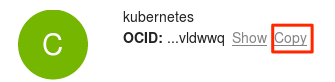
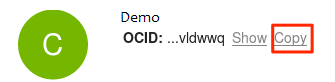
change compartment name to Demo

Changed region(s): [[0.3582, 0.1463, 0.597, 0.2683]]

diff --git a/workshops/container-native-development/LabGuide200-VBox.md b/workshops/container-native-development/LabGuide200-VBox.md
@@ -124,7 +124,7 @@ Compartments are used to isolate resources within your OCI tenant. User-based ac
 
     ![](images/200/7.png)
 
-  - In the **Name** field, enter `kubernetes`. Enter a description of your choice. Click **Create Compartment**.
+  - In the **Name** field, enter `Demo`. Enter a description of your choice. Click **Create Compartment**.
 
     ![](images/200/8.png)
 
@@ -147,14 +147,14 @@ An API key is required for Terraform to authenticate to OCI in order to create c
   cat ~/.oci/oci_api_key_public.pem | xclip -sel clip
   ```
 
-- In your browser window showing the OCI Console, click the **Identity** menu item. You will be brought to the **Users** menu. Find your username in the list and hover over the **three dots** menu at the far right of the row, then click **View User Details**.
+- In your browser window showing the OCI Console, click the **Identity** menu item. Find the user called **api.user***, or for a trial account, find *your username** in the list and hover over the **three dots** menu at the far right of the row, then click **View User Details**.
 
   ![](images/200/56.png)
 
   **NOTE**: You may not see any users in the list, or there may be only administrator users that you cannot modify. In that case, you can access your current logged-in user settings by hovering over your username in the top right of the page and clicking **User Settings**.
 
     ![](images/200/66.png)
-    
+
 - Click **Add Public Key**
 
   ![](images/200/12.png)
@@ -218,7 +218,7 @@ An API key is required for Terraform to authenticate to OCI in order to create c
 
   ![](images/200/57.2.png)
 
-- Now follow the same process of removing the comment character **#**, and fill in the OCI Compartment ID on **line 3**. Paste the value that you saved to a text file after creating the kubernetes **compartment** in the OCI Console. If you have lost it, you can retrieve it from the OCI Console compartment list (refer to **STEP 2**).
+- Now follow the same process of removing the comment character **#**, and fill in the OCI Compartment ID on **line 3**. Paste the value that you saved to a text file after locating or creating the Demo **compartment** in the OCI Console. If you have lost it, you can retrieve it from the OCI Console compartment list (refer to **STEP 2**).
 
   ```
   compartment_ocid = "Compartment OCID"
@@ -272,7 +272,7 @@ An API key is required for Terraform to authenticate to OCI in order to create c
 
   ![](images/200/61.png)
 
-- It will take several minutes to create the required Virtual Cloud Networks, load balancers, and compute instances that make up a Kubernetes cluster. If you'd like, you can observe the objects being created in the **OCI Console** -- click on **Compute** or **Networking** from the navigation menu and be sure to select the **kubernetes compartment** from the dropdown on the left side of the page.
+- It will take several minutes to create the required Virtual Cloud Networks, load balancers, and compute instances that make up a Kubernetes cluster. If you'd like, you can observe the objects being created in the **OCI Console** -- click on **Compute** or **Networking** from the navigation menu and be sure to select the **Demo compartment** from the dropdown on the left side of the page.
 
   ![](images/200/62.png)
 

diff --git a/workshops/container-native-development/LabGuide200-VNC.md b/workshops/container-native-development/LabGuide200-VNC.md
@@ -121,7 +121,7 @@ Compartments are used to isolate resources within your OCI tenant. User-based ac
 
     ![](images/200/7.png)
 
-  - In the **Name** field, enter `kubernetes`. Enter a description of your choice. Click **Create Compartment**.
+  - In the **Name** field, enter `Demo`. Enter a description of your choice. Click **Create Compartment**.
 
     ![](images/200/8.png)
 
@@ -144,7 +144,7 @@ An API key is required for Terraform to authenticate to OCI in order to create c
   cat ~/.oci/oci_api_key_public.pem | xclip -sel clip
   ```
 
-- In your browser window showing the OCI Console, click the **Identity** menu item. You will be brought to the **Users** menu. Find your username in the list and hover over the **three dots** menu at the far right of the row, then click **View User Details**.
+- In your browser window showing the OCI Console, click the **Identity** menu item. Find the user called **api.user***, or for a trial account, find *your username** in the list and hover over the **three dots** menu at the far right of the row, then click **View User Details**.
 
   ![](images/200/56.png)
 
@@ -215,7 +215,7 @@ An API key is required for Terraform to authenticate to OCI in order to create c
 
   ![](images/200/57.2.png)
 
-- Now follow the same process of removing the comment character **#**, and fill in the OCI Compartment ID on **line 3**. Paste the value that you saved to a text file after creating the kubernetes **compartment** in the OCI Console. If you have lost it, you can retrieve it from the OCI Console compartment list (refer to **STEP 2**).
+- Now follow the same process of removing the comment character **#**, and fill in the OCI Compartment ID on **line 3**. Paste the value that you saved to a text file after locating or creating the Demo **compartment** in the OCI Console. If you have lost it, you can retrieve it from the OCI Console compartment list (refer to **STEP 2**).
 
   ```
   compartment_ocid = "Compartment OCID"
@@ -269,7 +269,7 @@ An API key is required for Terraform to authenticate to OCI in order to create c
 
   ![](images/200/61.png)
 
-- It will take several minutes to create the required Virtual Cloud Networks, load balancers, and compute instances that make up a Kubernetes cluster. If you'd like, you can observe the objects being created in the **OCI Console** -- click on **Compute** or **Networking** from the navigation menu and be sure to select the **kubernetes compartment** from the dropdown on the left side of the page.
+- It will take several minutes to create the required Virtual Cloud Networks, load balancers, and compute instances that make up a Kubernetes cluster. If you'd like, you can observe the objects being created in the **OCI Console** -- click on **Compute** or **Networking** from the navigation menu and be sure to select the **Demo compartment** from the dropdown on the left side of the page.
 
   ![](images/200/62.png)
 

diff --git a/workshops/container-native-development/LabGuide200-Linux.md b/workshops/container-native-development/LabGuide200-Linux.md
@@ -86,7 +86,7 @@ Compartments are used to isolate resources within your OCI tenant. User-based ac
 
     ![](images/200/7.png)
 
-  - In the **Name** field, enter `kubernetes`. Enter a description of your choice. Click **Create Compartment**.
+  - In the **Name** field, enter `Demo`. Enter a description of your choice. Click **Create Compartment**.
 
     ![](images/200/8.png)
 
@@ -112,7 +112,7 @@ cat ~/.oci/oci_api_key_public.pem
 
   ![](images/200/11.png)
 
-- In your browser window showing the OCI Console, click the **Identity** menu item. You will be brought to the **Users** menu. Find your username in the list and hover over the **three dots** menu at the far right of the row, then click **View User Details**.
+- In your browser window showing the OCI Console, click the **Identity** menu item. Find the user called **api.user***, or for a trial account, find *your username** in the list and hover over the **three dots** menu at the far right of the row, then click **View User Details**.
 
   ![](images/200/56.png)
 
@@ -231,7 +231,7 @@ export PATH=$PATH:`pwd`
 
   ![](images/200/57.2.png)
 
-- Now follow the same process of removing the comment character **#**, and fill in the OCI Compartment ID on **line 3**. Paste the value that you saved to a text file after creating the kubernetes **compartment** in the OCI Console. If you have lost it, you can retrieve it from the OCI Console compartment list (refer to **STEP 2**).
+- Now follow the same process of removing the comment character **#**, and fill in the OCI Compartment ID on **line 3**. Paste the value that you saved to a text file after locating or creating the Demo **compartment** in the OCI Console. If you have lost it, you can retrieve it from the OCI Console compartment list (refer to **STEP 2**).
 
   ```
   compartment_ocid = "Compartment OCID"
@@ -287,7 +287,7 @@ export PATH=$PATH:`pwd`
 
   ![](images/200/61.png)
 
-- It will take several minutes to create the required Virtual Cloud Networks, load balancers, and compute instances that make up a Kubernetes cluster. If you'd like, you can observe the objects being created in the **OCI Console** -- click on **Compute** or **Networking** from the navigation menu and be sure to select the **kubernetes compartment** from the dropdown on the left side of the page.
+- It will take several minutes to create the required Virtual Cloud Networks, load balancers, and compute instances that make up a Kubernetes cluster. If you'd like, you can observe the objects being created in the **OCI Console** -- click on **Compute** or **Networking** from the navigation menu and be sure to select the **Demo compartment** from the dropdown on the left side of the page.
 
   ![](images/200/62.png)
 
